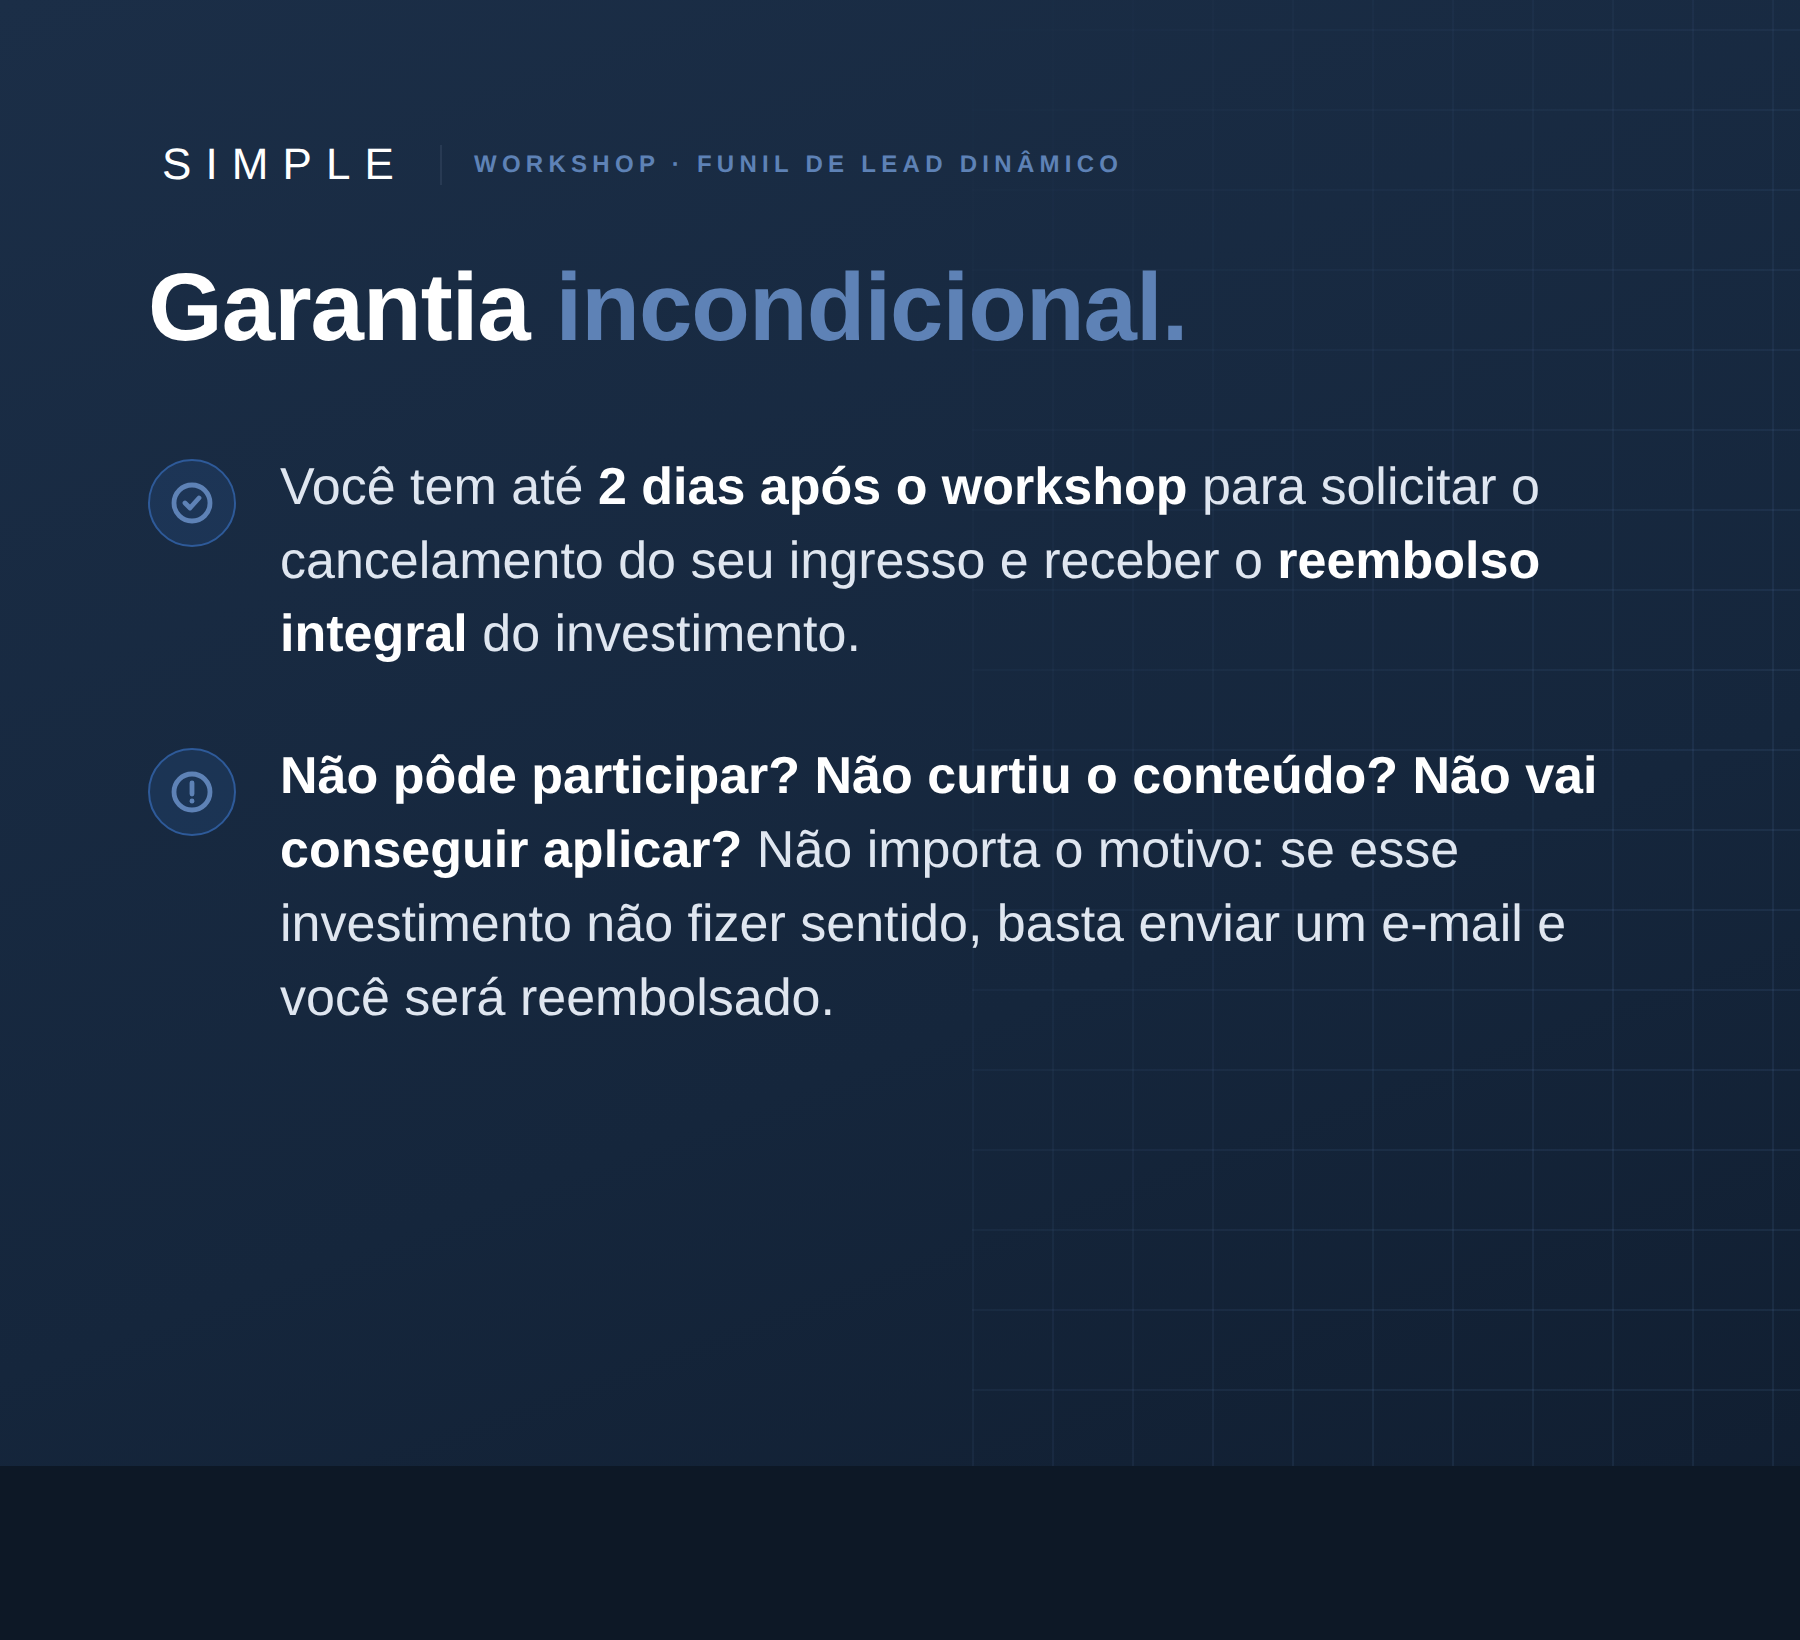
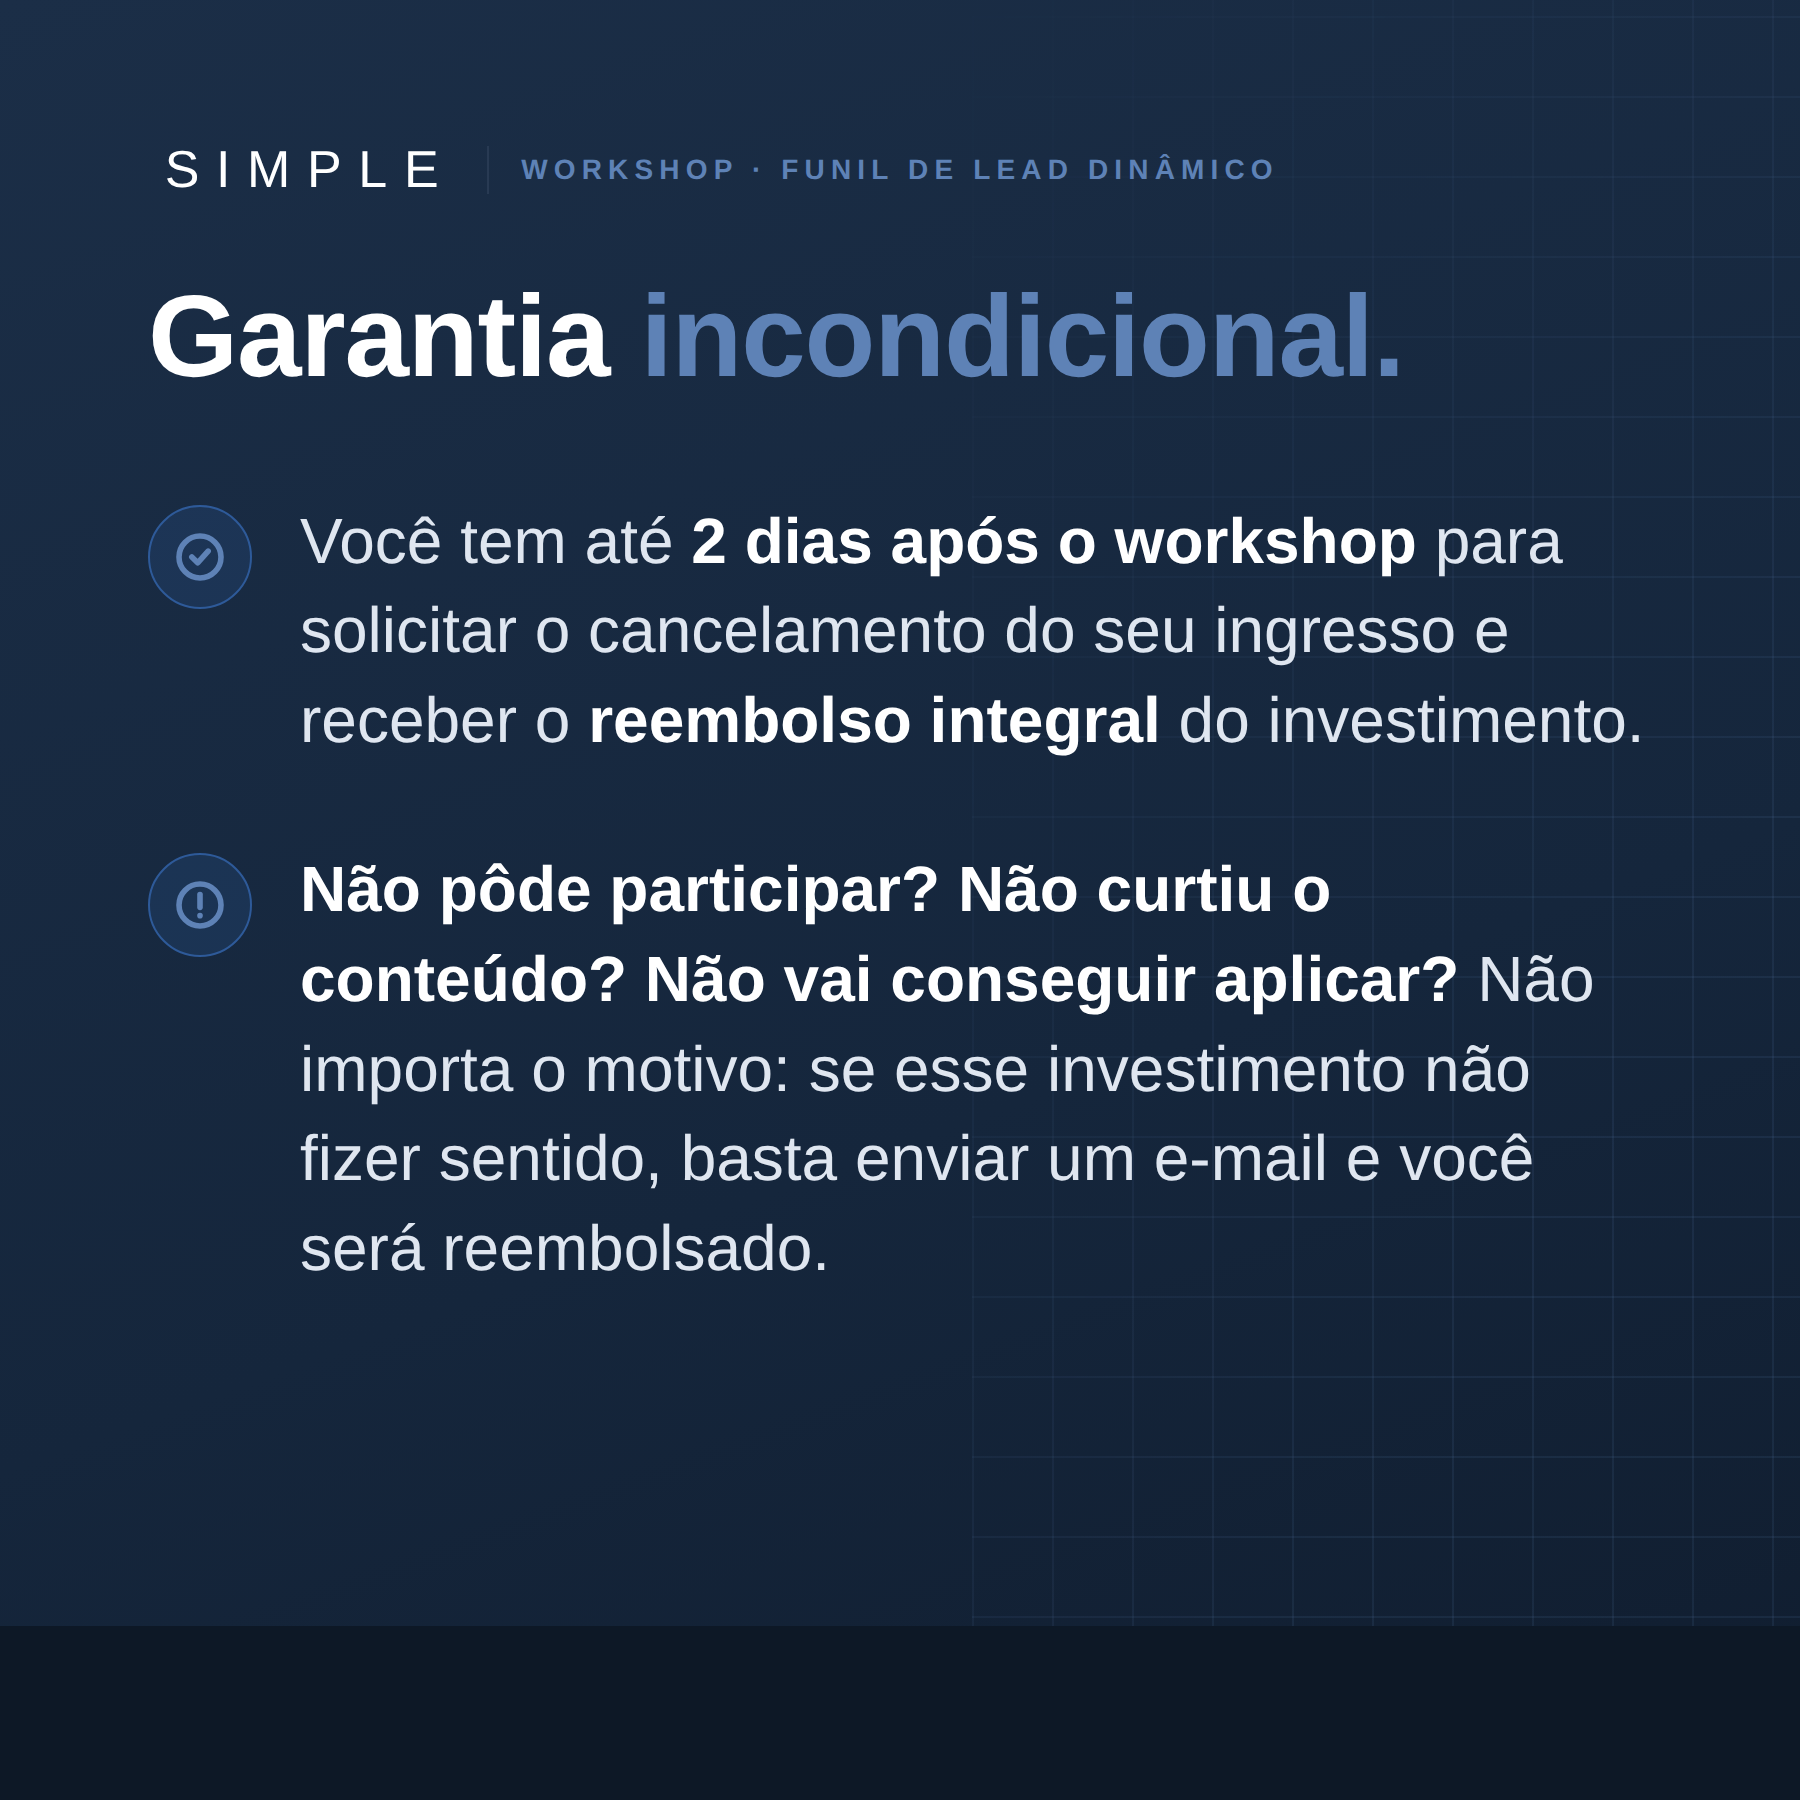
Ajusta artes do checkout: remove 6a edicao do thumb e aumenta fontes
- thumb-produto: selo agora so 'Ingresso' (sem 6a edicao), fontes maiores
- box-apos-workshop e box-garantia: fontes ampliadas p/ legibilidade no checkout

Claude-Session: https://claude.ai/code/session_01DPUnmFig9fJaFztX9RVKds

diff --git a/clientes/0-interno-simpleacc-inova/lancamento-workshop-14-07/criativos/thumb-produto.html b/clientes/0-interno-simpleacc-inova/lancamento-workshop-14-07/criativos/thumb-produto.html
@@ -17,26 +17,26 @@
     background:linear-gradient(140deg,#1E344F 0%,#15263C 58%,#101d2f 100%);
   }
   .thumb::after{
-    content:"";position:absolute;inset:0;top:44%;
+    content:"";position:absolute;inset:0;top:40%;
     background-image:linear-gradient(rgba(94,130,182,.16) 1px,transparent 1px),
                      linear-gradient(90deg,rgba(94,130,182,.16) 1px,transparent 1px);
-    background-size:46px 46px;
+    background-size:50px 50px;
     -webkit-mask-image:linear-gradient(180deg,transparent,#000 62%);
             mask-image:linear-gradient(180deg,transparent,#000 62%);
   }
-  .pad{position:absolute;inset:0;padding:70px 66px 84px;display:flex;flex-direction:column;z-index:2}
-  .brandrow{display:flex;align-items:center;gap:20px}
-  .wm{font-weight:300;letter-spacing:.34em;font-size:34px;padding-left:.34em}
-  .vsep{width:1px;height:28px;background:var(--line-d)}
-  .kicker{font-size:17px;letter-spacing:.24em;text-transform:uppercase;color:var(--blue-lt);font-weight:600}
-  .edicao{align-self:flex-start;margin-top:40px;font-size:16px;letter-spacing:.14em;text-transform:uppercase;
-    font-weight:600;color:#fff;background:var(--blue);padding:11px 22px;border-radius:999px}
+  .pad{position:absolute;inset:0;padding:66px 64px 108px;display:flex;flex-direction:column;z-index:2}
+  .brandrow{display:flex;align-items:center;gap:22px}
+  .wm{font-weight:300;letter-spacing:.32em;font-size:46px;padding-left:.32em}
+  .vsep{width:1px;height:38px;background:var(--line-d)}
+  .kicker{font-size:23px;letter-spacing:.24em;text-transform:uppercase;color:var(--blue-lt);font-weight:600}
+  .edicao{align-self:flex-start;margin-top:44px;font-size:24px;letter-spacing:.16em;text-transform:uppercase;
+    font-weight:600;color:#fff;background:var(--blue);padding:14px 32px;border-radius:999px}
   .title{margin-top:auto}
-  .title h1{font-weight:600;letter-spacing:-.02em;line-height:1.02;font-size:72px}
+  .title h1{font-weight:600;letter-spacing:-.02em;line-height:1.0;font-size:98px}
   .title h1 b{color:var(--blue-lt);font-weight:600}
-  .meta{display:flex;gap:26px;margin-top:28px}
-  .meta span{font-size:17px;letter-spacing:.12em;text-transform:uppercase;color:var(--steel);font-weight:500;display:flex;align-items:center;gap:13px}
-  .meta span::before{content:"";width:7px;height:7px;border-radius:50%;background:var(--blue-lt)}
+  .meta{display:flex;gap:34px;margin-top:36px}
+  .meta span{font-size:24px;letter-spacing:.1em;text-transform:uppercase;color:var(--steel);font-weight:500;display:flex;align-items:center;gap:14px}
+  .meta span::before{content:"";width:9px;height:9px;border-radius:50%;background:var(--blue-lt)}
 </style>
 </head>
 <body>
@@ -47,7 +47,7 @@
         <span class="vsep"></span>
         <span class="kicker">Workshop</span>
       </div>
-      <span class="edicao">6ª edição · Ingresso</span>
+      <span class="edicao">Ingresso</span>
       <div class="title">
         <h1>Funil de <b>Lead Dinâmico</b></h1>
         <div class="meta">

diff --git a/clientes/0-interno-simpleacc-inova/lancamento-workshop-14-07/criativos/box-apos-workshop.html b/clientes/0-interno-simpleacc-inova/lancamento-workshop-14-07/criativos/box-apos-workshop.html
@@ -10,9 +10,9 @@
   }
   *{box-sizing:border-box;margin:0;padding:0}
   html,body{background:#0d1826}
-  /* Box lateral do checkout "Apos o Workshop voce tera". 900x1160, marca Simple */
+  /* Box lateral do checkout "Apos o Workshop voce tera". 900x1300, marca Simple */
   .box{
-    position:relative;width:900px;height:1160px;overflow:hidden;
+    position:relative;width:900px;height:1300px;overflow:hidden;
     font-family:var(--f);color:#fff;
     background:linear-gradient(160deg,#1B2E47 0%,#15263C 60%,#101d2f 100%);
     padding:76px 74px;display:flex;flex-direction:column;
@@ -26,18 +26,18 @@
             mask-image:linear-gradient(120deg,transparent,#000 70%);
   }
   .brandrow{display:flex;align-items:center;gap:16px;z-index:2}
-  .wm{font-weight:300;letter-spacing:.32em;font-size:24px;padding-left:.32em}
-  .vsep{width:1px;height:22px;background:var(--line-d)}
-  .kicker{font-size:13px;letter-spacing:.22em;text-transform:uppercase;color:var(--blue-lt);font-weight:600}
-  h2{z-index:2;margin-top:40px;font-weight:600;letter-spacing:-.01em;font-size:46px;line-height:1.08}
+  .wm{font-weight:300;letter-spacing:.32em;font-size:28px;padding-left:.32em}
+  .vsep{width:1px;height:26px;background:var(--line-d)}
+  .kicker{font-size:15px;letter-spacing:.22em;text-transform:uppercase;color:var(--blue-lt);font-weight:600}
+  h2{z-index:2;margin-top:44px;font-weight:600;letter-spacing:-.01em;font-size:56px;line-height:1.06}
   h2 b{color:var(--blue-lt);font-weight:600}
-  ul{list-style:none;margin-top:44px;z-index:2;display:flex;flex-direction:column;gap:0}
-  li{display:flex;align-items:flex-start;gap:20px;padding:22px 0;border-bottom:1px solid var(--line-d);
-    font-size:26px;line-height:1.32;color:#dfe6f0;font-weight:400}
+  ul{list-style:none;margin-top:48px;z-index:2;display:flex;flex-direction:column;gap:0}
+  li{display:flex;align-items:flex-start;gap:22px;padding:24px 0;border-bottom:1px solid var(--line-d);
+    font-size:32px;line-height:1.3;color:#dfe6f0;font-weight:400}
   li:last-child{border-bottom:none}
-  li .ck{flex:0 0 auto;width:34px;height:34px;border-radius:50%;background:rgba(46,90,153,.22);
+  li .ck{flex:0 0 auto;width:40px;height:40px;border-radius:50%;background:rgba(46,90,153,.22);
     border:1px solid var(--blue);display:flex;align-items:center;justify-content:center;margin-top:3px}
-  li .ck svg{width:18px;height:18px;stroke:var(--blue-lt);stroke-width:3;fill:none}
+  li .ck svg{width:21px;height:21px;stroke:var(--blue-lt);stroke-width:3;fill:none}
   li b{color:#fff;font-weight:600}
 </style>
 </head>

diff --git a/clientes/0-interno-simpleacc-inova/lancamento-workshop-14-07/criativos/box-garantia.html b/clientes/0-interno-simpleacc-inova/lancamento-workshop-14-07/criativos/box-garantia.html
@@ -12,7 +12,7 @@
   html,body{background:#0d1826}
   /* Box lateral do checkout "Garantia incondicional". 900x820, marca Simple */
   .box{
-    position:relative;width:900px;height:820px;overflow:hidden;
+    position:relative;width:900px;height:900px;overflow:hidden;
     font-family:var(--f);color:#fff;
     background:linear-gradient(160deg,#1B2E47 0%,#15263C 60%,#101d2f 100%);
     padding:70px 74px;display:flex;flex-direction:column;
@@ -26,17 +26,17 @@
             mask-image:linear-gradient(120deg,transparent,#000 70%);
   }
   .brandrow{display:flex;align-items:center;gap:16px;z-index:2}
-  .wm{font-weight:300;letter-spacing:.32em;font-size:22px;padding-left:.32em}
-  .vsep{width:1px;height:20px;background:var(--line-d)}
-  .kicker{font-size:12px;letter-spacing:.22em;text-transform:uppercase;color:var(--blue-lt);font-weight:600}
-  h2{z-index:2;margin-top:34px;font-weight:600;letter-spacing:-.01em;font-size:48px;line-height:1.05}
+  .wm{font-weight:300;letter-spacing:.32em;font-size:26px;padding-left:.32em}
+  .vsep{width:1px;height:24px;background:var(--line-d)}
+  .kicker{font-size:14px;letter-spacing:.22em;text-transform:uppercase;color:var(--blue-lt);font-weight:600}
+  h2{z-index:2;margin-top:38px;font-weight:600;letter-spacing:-.01em;font-size:58px;line-height:1.04}
   h2 b{color:var(--blue-lt);font-weight:600}
-  .items{margin-top:46px;z-index:2;display:flex;flex-direction:column;gap:34px}
-  .item{display:flex;align-items:flex-start;gap:22px}
-  .ico{flex:0 0 auto;width:44px;height:44px;border-radius:50%;background:rgba(46,90,153,.22);
+  .items{margin-top:50px;z-index:2;display:flex;flex-direction:column;gap:40px}
+  .item{display:flex;align-items:flex-start;gap:24px}
+  .ico{flex:0 0 auto;width:52px;height:52px;border-radius:50%;background:rgba(46,90,153,.22);
     border:1px solid var(--blue);display:flex;align-items:center;justify-content:center;margin-top:4px}
-  .ico svg{width:24px;height:24px;stroke:var(--blue-lt);stroke-width:2.4;fill:none;stroke-linecap:round;stroke-linejoin:round}
-  .txt{font-size:26px;line-height:1.42;color:#dfe6f0;font-weight:400}
+  .ico svg{width:28px;height:28px;stroke:var(--blue-lt);stroke-width:2.4;fill:none;stroke-linecap:round;stroke-linejoin:round}
+  .txt{font-size:32px;line-height:1.4;color:#dfe6f0;font-weight:400}
   .txt b{color:#fff;font-weight:600}
   .sep{height:1px;background:var(--line-d);margin:0;z-index:2}
 </style>